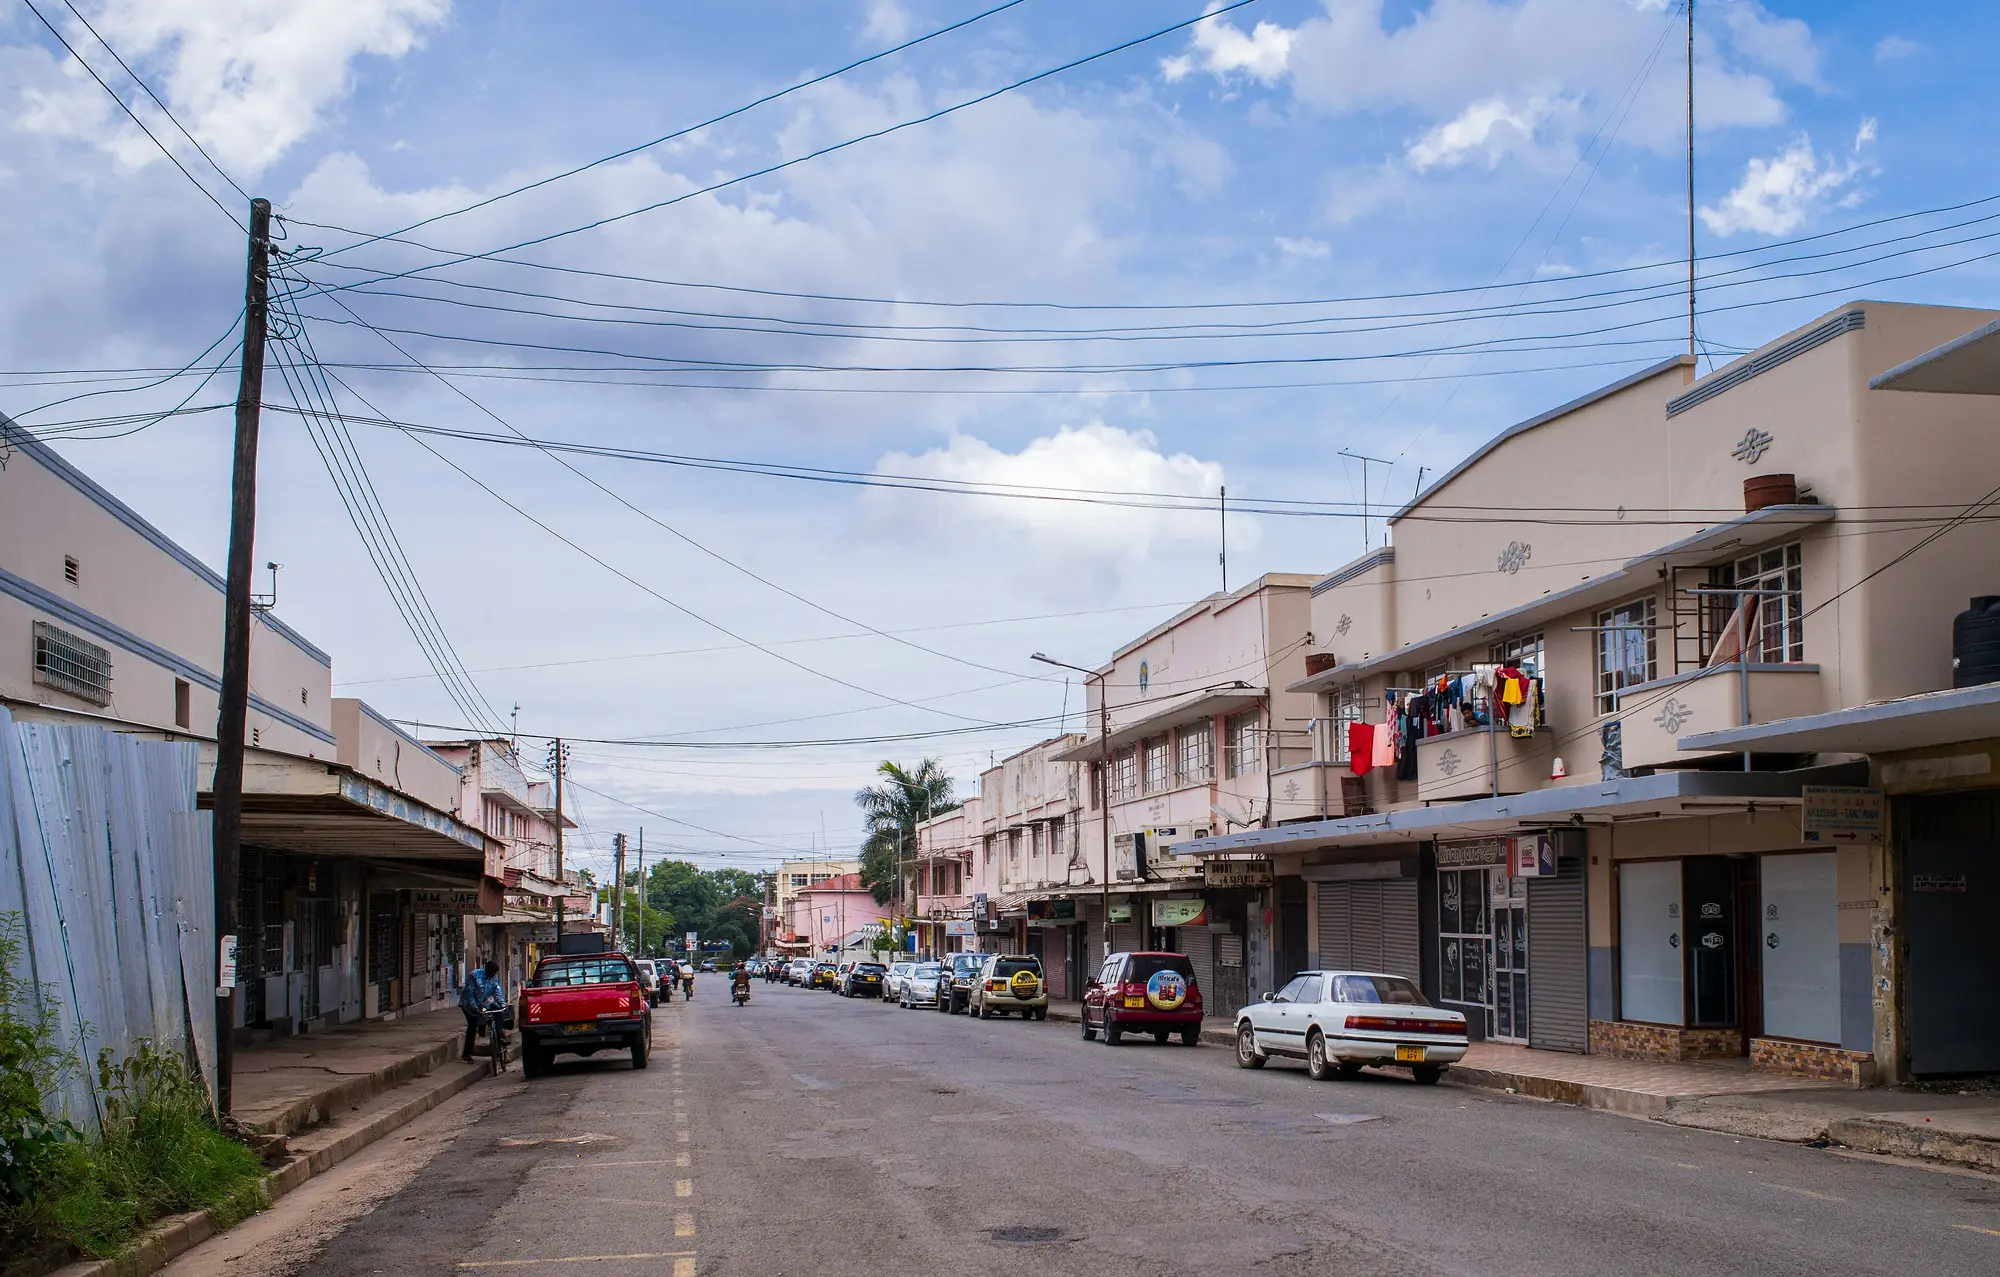
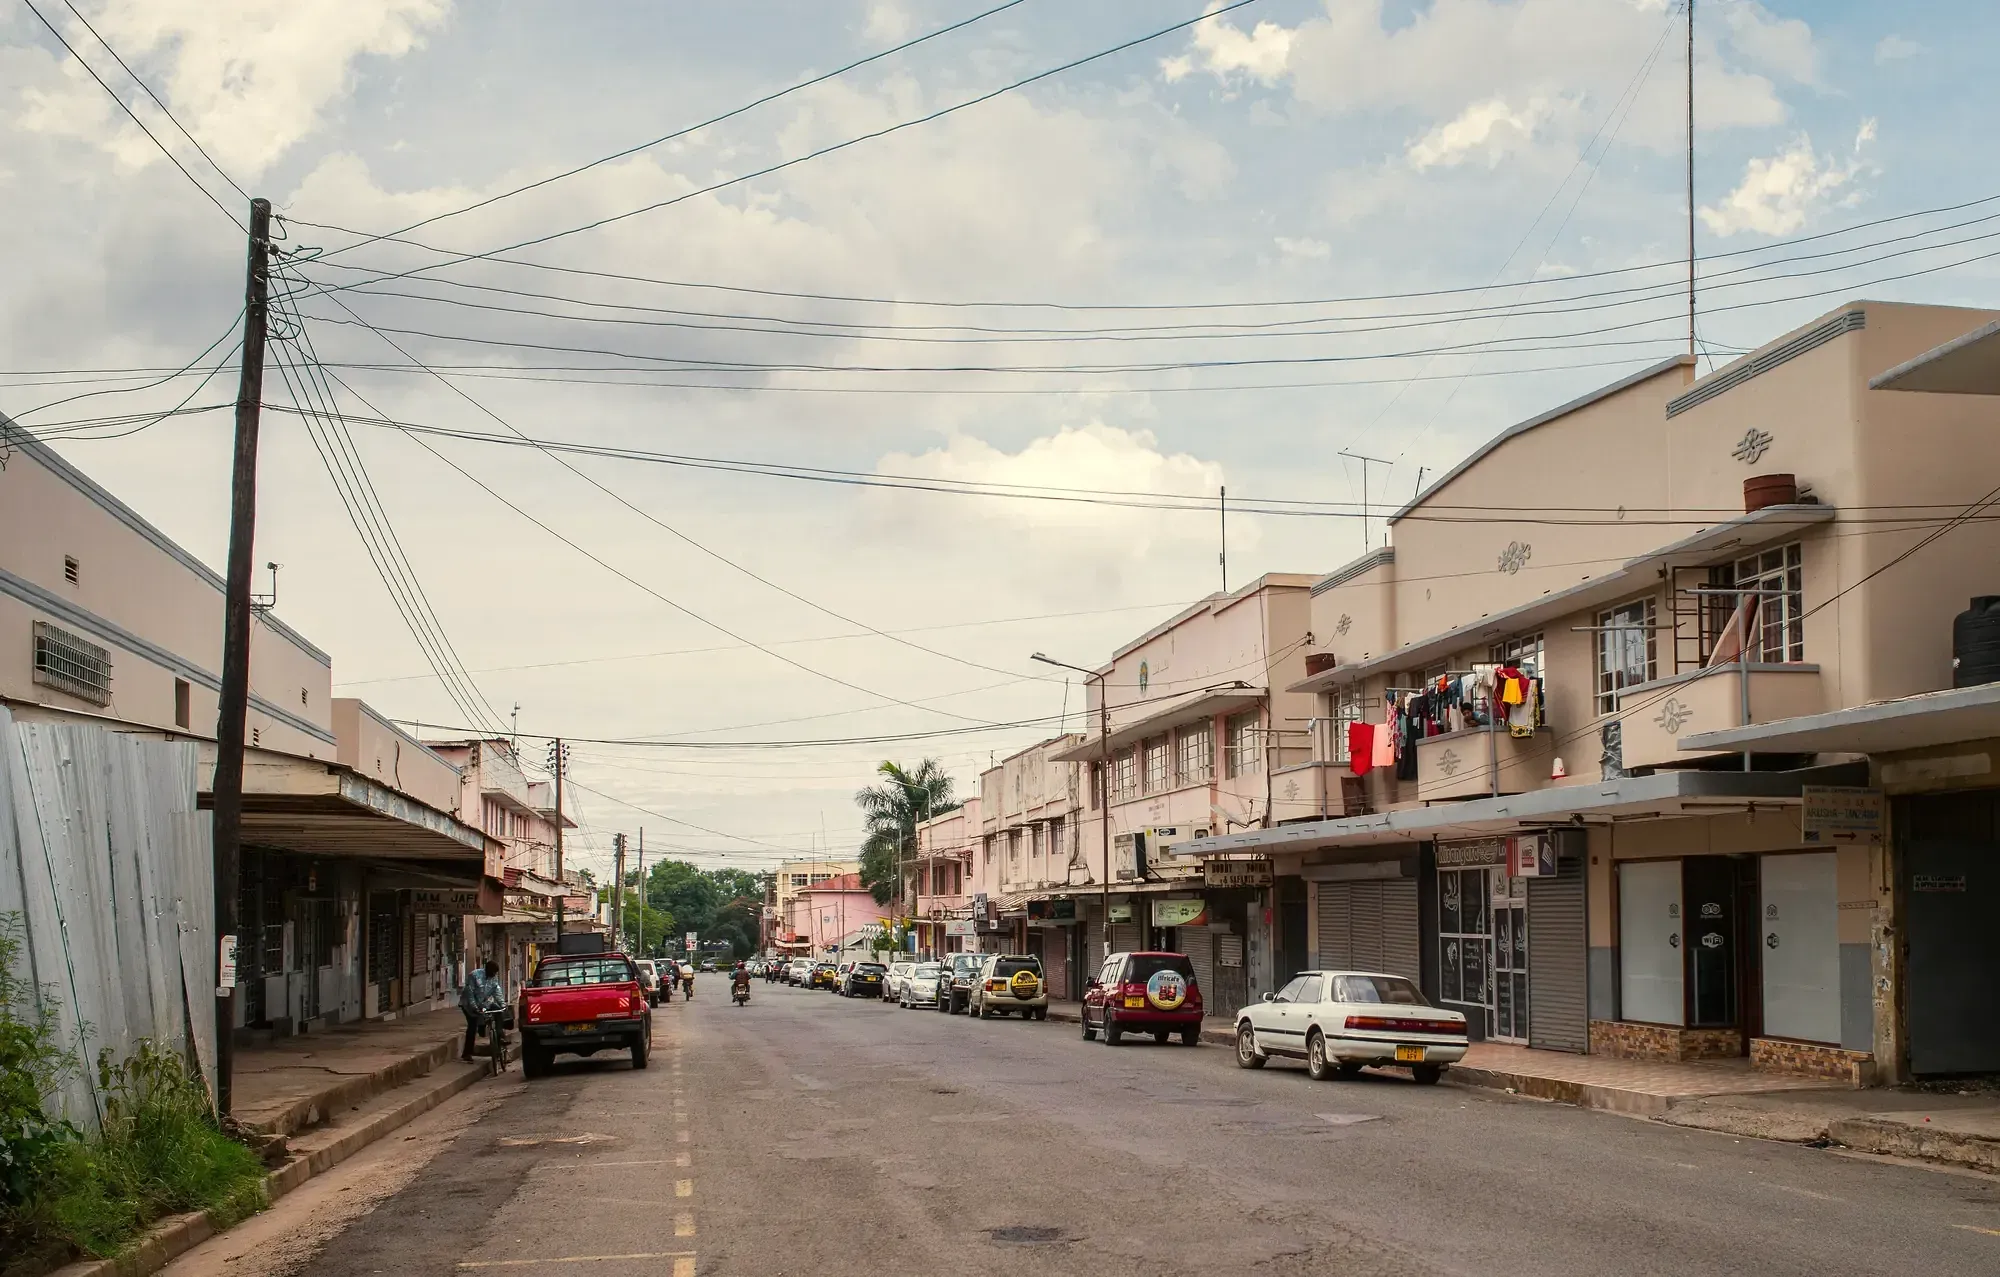
Revisión de coherencia cromática: token de velo unificado, dos sustituciones y una corrección de temperatura
- --scrim consolida cuatro negros-verdosos casi idénticos (velos sobre
  fotografía y fondo del reproductor de vídeo) en un único origen, igual al
  charcoal que ya usan los contenedores detrás de las fotos.
- La galería de Serengeti cambia zebra-herd-monochrome (monocroma en el
  original del cliente) por lion-open-savannah; la del safari cultural
  cambia elephant-family-walking (también monocroma en origen) por
  leopard-in-tree. Ambas rompían la unidad cromática de fotografías en
  color contiguas sin aportar una elección editorial.
- tanzania/arusha recibe una pasada selectiva sobre el azul del cielo: es
  la única fotografía de calle de toda la web y la más fría, y se repite en
  más de una docena de itinerarios además de en su propia ficha de destino.
- --only añadido a harmonize-photos.mjs para poder reprocesar una sola
  receta sin volver a aplicar correcciones ya horneadas en los derivados
  que no conservan original.

Verificado: test:hero-film (30/30), check-a11y y check-links-seo sin
regresiones tras el rebuild.

Claude-Session: https://claude.ai/code/session_016uhUuktx81gE9XdqzkeyKg

diff --git a/maisha-quest/src/app/globals.css b/maisha-quest/src/app/globals.css
@@ -39,6 +39,15 @@
   --earth: #604536;         /* Earth Brown — madera, cuero */
   --charcoal: #181b17;
   --white: #ffffff;
+  /* Mismo negro-verdoso que --charcoal, en tripleta para poder mezclarlo
+     dentro de un rgba(). Existían tres variaciones casi idénticas de este
+     tono (27,29,26 / 18,22,18 / 15,19,15) repartidas entre los velos sobre
+     fotografía y el fondo de los contenedores de vídeo: mismo trabajo,
+     tres negros ligeramente distintos, sin ninguna razón para que difirieran.
+     Un solo origen también asegura que el velo y el fondo del contenedor que
+     hay detrás de la fotografía (`bg-charcoal`) sean EXACTAMENTE el mismo
+     color, no uno parecido — la costura entre los dos deja de notarse. */
+  --scrim: 24, 27, 23;
 
   /* --- Roles semánticos --------------------------------------------------- */
   /* Los componentes usan estos, no los de marca. */
@@ -286,10 +295,10 @@ p {
 .media-scrim {
   background: linear-gradient(
     to top,
-    rgba(27, 29, 26, 0.78) 0%,
-    rgba(27, 29, 26, 0.5) 28%,
-    rgba(27, 29, 26, 0.16) 58%,
-    rgba(27, 29, 26, 0.28) 100%
+    rgba(var(--scrim), 0.78) 0%,
+    rgba(var(--scrim), 0.5) 28%,
+    rgba(var(--scrim), 0.16) 58%,
+    rgba(var(--scrim), 0.28) 100%
   );
 }
 
@@ -330,11 +339,11 @@ p {
 .media-scrim-side {
   background: linear-gradient(
     to top,
-    rgba(18, 22, 18, 0.9) 0%,
-    rgba(18, 22, 18, 0.74) 34%,
-    rgba(18, 22, 18, 0.44) 62%,
-    rgba(18, 22, 18, 0.14) 86%,
-    rgba(18, 22, 18, 0) 100%
+    rgba(var(--scrim), 0.9) 0%,
+    rgba(var(--scrim), 0.74) 34%,
+    rgba(var(--scrim), 0.44) 62%,
+    rgba(var(--scrim), 0.14) 86%,
+    rgba(var(--scrim), 0) 100%
   );
 }
 
@@ -347,10 +356,10 @@ p {
 .media-scrim-top {
   background: linear-gradient(
     to bottom,
-    rgba(18, 22, 18, 0.72) 0%,
-    rgba(18, 22, 18, 0.52) 45%,
-    rgba(18, 22, 18, 0.2) 78%,
-    rgba(18, 22, 18, 0) 100%
+    rgba(var(--scrim), 0.72) 0%,
+    rgba(var(--scrim), 0.52) 45%,
+    rgba(var(--scrim), 0.2) 78%,
+    rgba(var(--scrim), 0) 100%
   );
 }
 
@@ -358,11 +367,11 @@ p {
   .media-scrim-side {
     background: linear-gradient(
       to right,
-      rgba(18, 22, 18, 0.88) 0%,
-      rgba(18, 22, 18, 0.72) 30%,
-      rgba(18, 22, 18, 0.42) 52%,
-      rgba(18, 22, 18, 0.12) 74%,
-      rgba(18, 22, 18, 0) 88%
+      rgba(var(--scrim), 0.88) 0%,
+      rgba(var(--scrim), 0.72) 30%,
+      rgba(var(--scrim), 0.42) 52%,
+      rgba(var(--scrim), 0.12) 74%,
+      rgba(var(--scrim), 0) 88%
     );
   }
 }
@@ -377,11 +386,11 @@ p {
 .hero-scrim {
   background: linear-gradient(
     to bottom,
-    rgba(15, 19, 15, 0.62) 0%,
-    rgba(15, 19, 15, 0.32) 22%,
-    rgba(15, 19, 15, 0.4) 50%,
-    rgba(15, 19, 15, 0.34) 74%,
-    rgba(15, 19, 15, 0.62) 100%
+    rgba(var(--scrim), 0.62) 0%,
+    rgba(var(--scrim), 0.32) 22%,
+    rgba(var(--scrim), 0.4) 50%,
+    rgba(var(--scrim), 0.34) 74%,
+    rgba(var(--scrim), 0.62) 100%
   );
 }
 
@@ -1473,7 +1482,7 @@ p {
   justify-content: center;
   padding: max(1.25rem, env(safe-area-inset-top)) max(1.25rem, env(safe-area-inset-right))
     max(1.25rem, env(safe-area-inset-bottom)) max(1.25rem, env(safe-area-inset-left));
-  background: rgb(12 16 12 / 0.92);
+  background: rgba(var(--scrim), 0.92);
   backdrop-filter: blur(6px);
   opacity: 1;
   animation: mq-panel-fade-in 260ms var(--ease-out) both;
@@ -1511,7 +1520,7 @@ p {
   top: max(0.75rem, env(safe-area-inset-top));
   right: max(0.75rem, env(safe-area-inset-right));
   z-index: 2;
-  background: rgb(12 16 12 / 0.55);
+  background: rgba(var(--scrim), 0.55);
 }
 
 .mq-video-modal-state {
@@ -1526,7 +1535,7 @@ p {
   padding: 1.5rem;
   text-align: center;
   color: var(--parchment);
-  background: rgb(0 0 0 / 0.4);
+  background: rgba(var(--scrim), 0.55);
 }
 
 .mq-video-modal-ended {
@@ -1539,7 +1548,7 @@ p {
   justify-content: center;
   gap: 0.75rem;
   padding: 1.5rem;
-  background: rgb(12 16 12 / 0.6);
+  background: rgba(var(--scrim), 0.6);
 }
 
 @media (prefers-reduced-motion: reduce) {

diff --git a/maisha-quest/src/data/structure/destinations.ts b/maisha-quest/src/data/structure/destinations.ts
@@ -26,7 +26,13 @@ export const DESTINATION_STRUCTURE: DestinationStructure[] = [
     // actividades propias aquí.
     experienceSlugs: [],
     image: PHOTOS["serengeti-plains"],
-    gallery: [CLIENT_PHOTOS["male-lions-together"], CLIENT_PHOTOS["zebra-herd-monochrome"], PHOTOS["serengeti-sunrise"], PHOTOS["wildebeest-migration"]],
+    /* `zebra-herd-monochrome` salía de esta galería: el archivo del cliente es
+       monocromo de origen (comprobado en el original, no un procesado
+       nuestro), y al lado de tres fotografías en color leía como una foto
+       rota, no como una elección editorial. `lion-open-savannah` cubre el
+       hueco con la misma dirección cálida de las otras tres y sin repetirse
+       en ninguna página cercana (solo aparecía en Colecciones). */
+    gallery: [CLIENT_PHOTOS["male-lions-together"], CLIENT_PHOTOS["lion-open-savannah"], PHOTOS["serengeti-sunrise"], PHOTOS["wildebeest-migration"]],
     mapPosition: {"x":494.5955776482442,"y":120.88893930571223},
     seasonCount: 3,
   },

diff --git a/maisha-quest/src/data/structure/safaris.ts b/maisha-quest/src/data/structure/safaris.ts
@@ -447,7 +447,13 @@ export const SAFARI_STRUCTURE: SafariStructure[] = [
     accommodationStyle: "Lodge",
     price: PRICE_ON_REQUEST,
     image: PHOTOS["maasai-boma-warm"],
-    gallery: [PHOTOS["serengeti-sunrise"], CLIENT_PHOTOS["elephant-family-walking"]],
+    /* `elephant-family-walking` salía de aquí: es monocroma en el propio
+       original del cliente (comprobado, no un procesado nuestro — no hay
+       color que recuperar sin inventarlo), y al lado de un amanecer muy
+       saturado se leía como una foto sin color, no como una elección. Los
+       elefantes de esta ruta siguen presentes en la ficha de Tarangire, en
+       Learn y en el día 9 del itinerario — solo se retira de ESTA pareja. */
+    gallery: [PHOTOS["serengeti-sunrise"], CLIENT_PHOTOS["leopard-in-tree"]],
     itinerary: [
       { day: 1, accommodationSlug: null, meals: ["dinner"], images: [PHOTOS["arusha"]] },
       { day: 2, accommodationSlug: null, meals: ["breakfast", "lunch", "dinner"], images: [PHOTOS["arusha"]] },

diff --git a/maisha-quest/docs/homepage-image-harmonisation.md b/maisha-quest/docs/homepage-image-harmonisation.md
@@ -13,7 +13,9 @@ altas luces. No se ha recortado, ni retocado, ni añadido o quitado nada, ni se
 ha cambiado el color real de ningún animal. Los atardeceres cálidos del cliente
 NO se tocan: son cálidos porque son atardeceres, y esa es la dirección buscada.
 
-Fecha de esta pasada: 2026-08-29.
+Fecha de esta pasada: 2026-08-29. Ampliada el 2026-09-14 con la revisión
+cromática de todo el sitio (no solo la portada): esa fila lleva su propia
+fecha en la columna «Por qué» cuando aplica.
 
 La columna «antes» compara con el derivado que estaba publicado en el momento
 de ejecutarlo: si se vuelve a lanzar sin cambiar la receta no hay diferencia,
@@ -34,6 +36,7 @@ portada antes de tocar nada.
 | `maisha-quest/flamingos-tanzania-lake` | 9.128 K: el agua del lago se va al cian y es la foto más fría de la portada después de la boma. El rosa de los flamencos no se toca. | original del cliente (image-X4-1.jpg) | 6043 → 6541 K | 10 % → 13 % | 1 % → 1 % |
 | `maisha-quest/giraffes-open-savannah` | 6.438 K: entra nueva en la portada —sustituye a la monocroma— y llega un punto más fría que el resto. Ajuste mínimo: el cielo sigue siendo azul y la hierba, hierba. | original del cliente (image-X4-3.jpg) | 5910 → 5918 K | 30 % → 30 % | 4 % → 4 % |
 | `tanzania/ngorongoro-zebras` | SAFARI Y ZANZÍBAR. 6.719 K con verdes fríos: se apartaba del oliva del resto, y en el recorte de la tarjeta la bruma azul del cráter ocupa el tercio superior. | original de Commons | 5335 → 5333 K | 29 % → 29 % | 19 % → 19 % |
+| `tanzania/arusha` (2026-09-14) | ARUSHA. Única fotografía de calle de toda la web —el resto es fauna y paisaje— y la única con un cielo azul saturado; se usa en más de una docena de itinerarios (día 1 de casi todos los safaris) y en la ficha del propio destino, así que su temperatura se notaba en toda la web. No se sustituye por fauna porque la página necesita mostrar Arusha de verdad. | derivado publicado | 8070 → 5515 K | 21 % → 19 % | 3 % → 14 % |
 
 ## Recetas exactas
 
@@ -50,6 +53,13 @@ portada antes de tocar nada.
 | `maisha-quest/flamingos-tanzania-lake` | 1.16 | 1.05 / 1.01 / 0.93 | 4 / 4 / 0 |
 | `maisha-quest/giraffes-open-savannah` | 0.97 | 1.02 / 1 / 0.96 | 3 / 4 / 1 |
 | `tanzania/ngorongoro-zebras` | 0.96 | 1.045 / 1.005 / 0.93 | 5 / 6 / 2 |
+| `tanzania/arusha` | 1 | 1.05 / 1 / 0.9 | 4 / 3 / 0 |
+
+`tanzania/arusha` lleva además una pasada selectiva previa (igual que
+`maasai-boma-warm`, `kilimanjaro-kibo`, `balloon-serengeti` y
+`ngorongoro-zebras`, arriba): solo el azul del cielo (tono 195°-250°) baja al
+55 % de su saturación antes de aplicar la ganancia global — el resto del
+encuadre no se toca.
 
 La ganancia multiplica cada canal —más rojo y menos azul calienta— y el
 pedestal lo desplaza, que pesa en las sombras y casi nada en las luces: negros
@@ -101,4 +111,8 @@ positivo comprime las altas luces y recupera detalle en un cielo quemado.
 ### `ngorongoro-zebras`
 
 ![Antes y después de ngorongoro-zebras](tone/ngorongoro-zebras-antes-despues.webp)
+
+### `arusha`
+
+![Antes y después de arusha](tone/arusha-antes-despues.webp)
 
